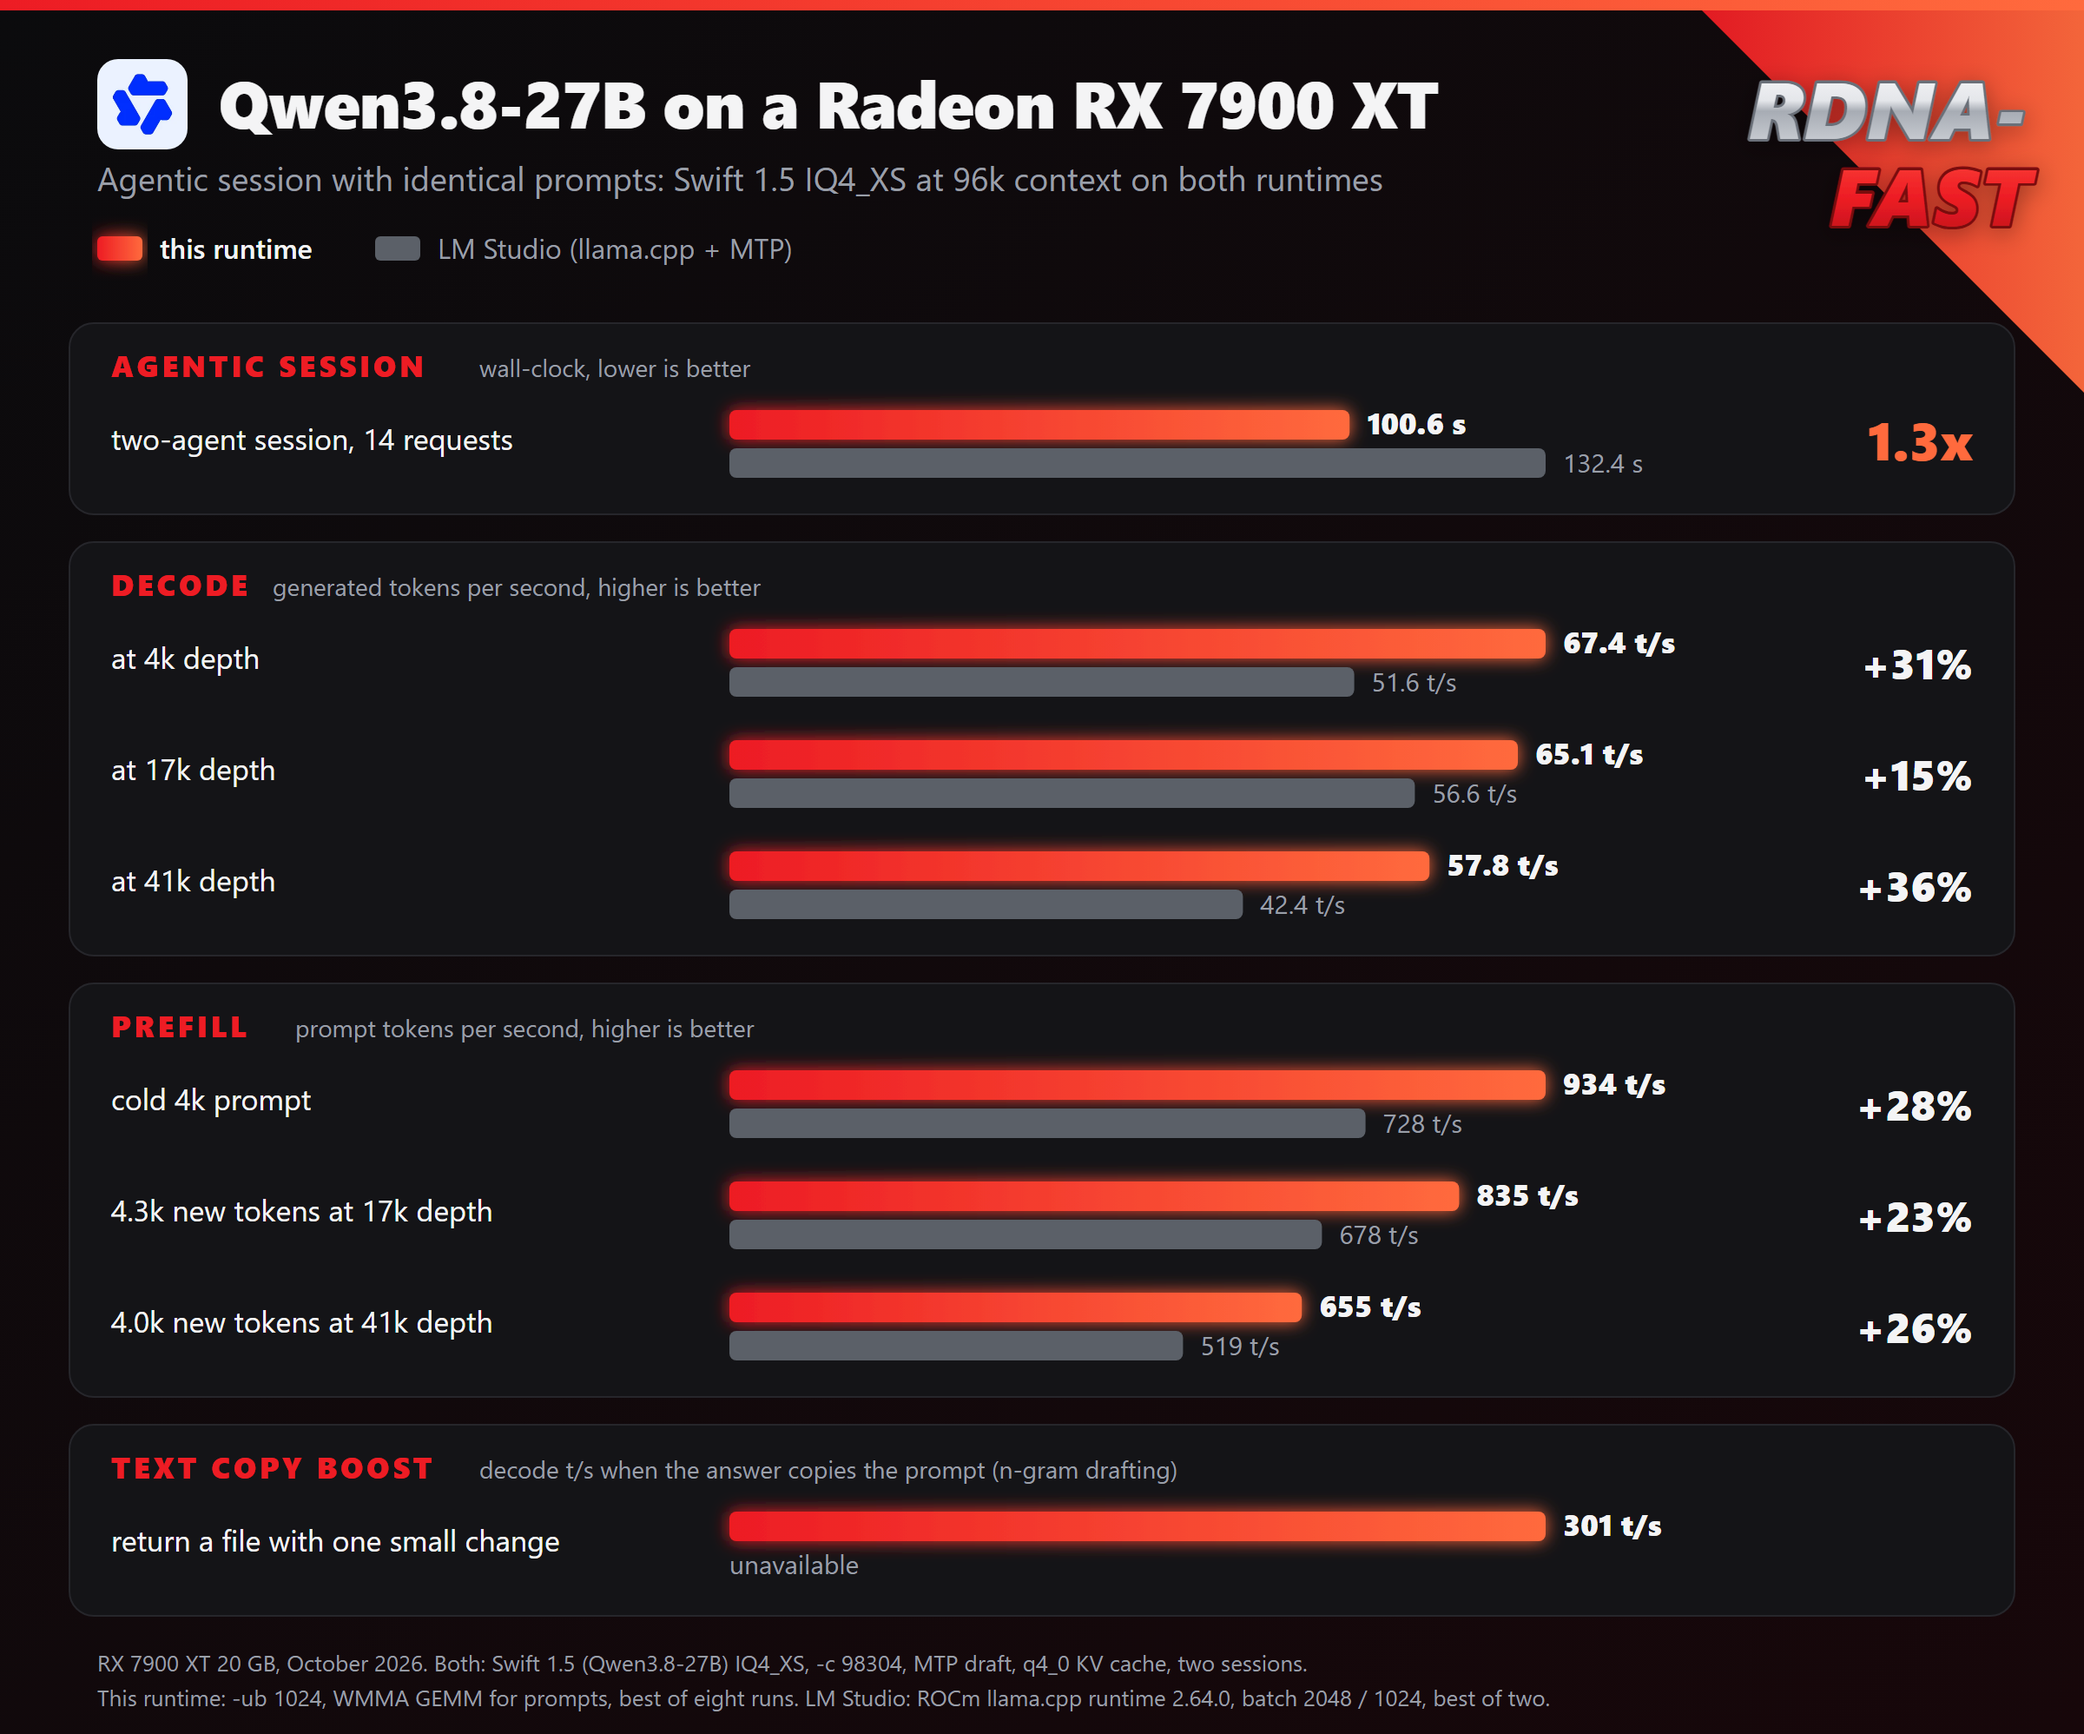
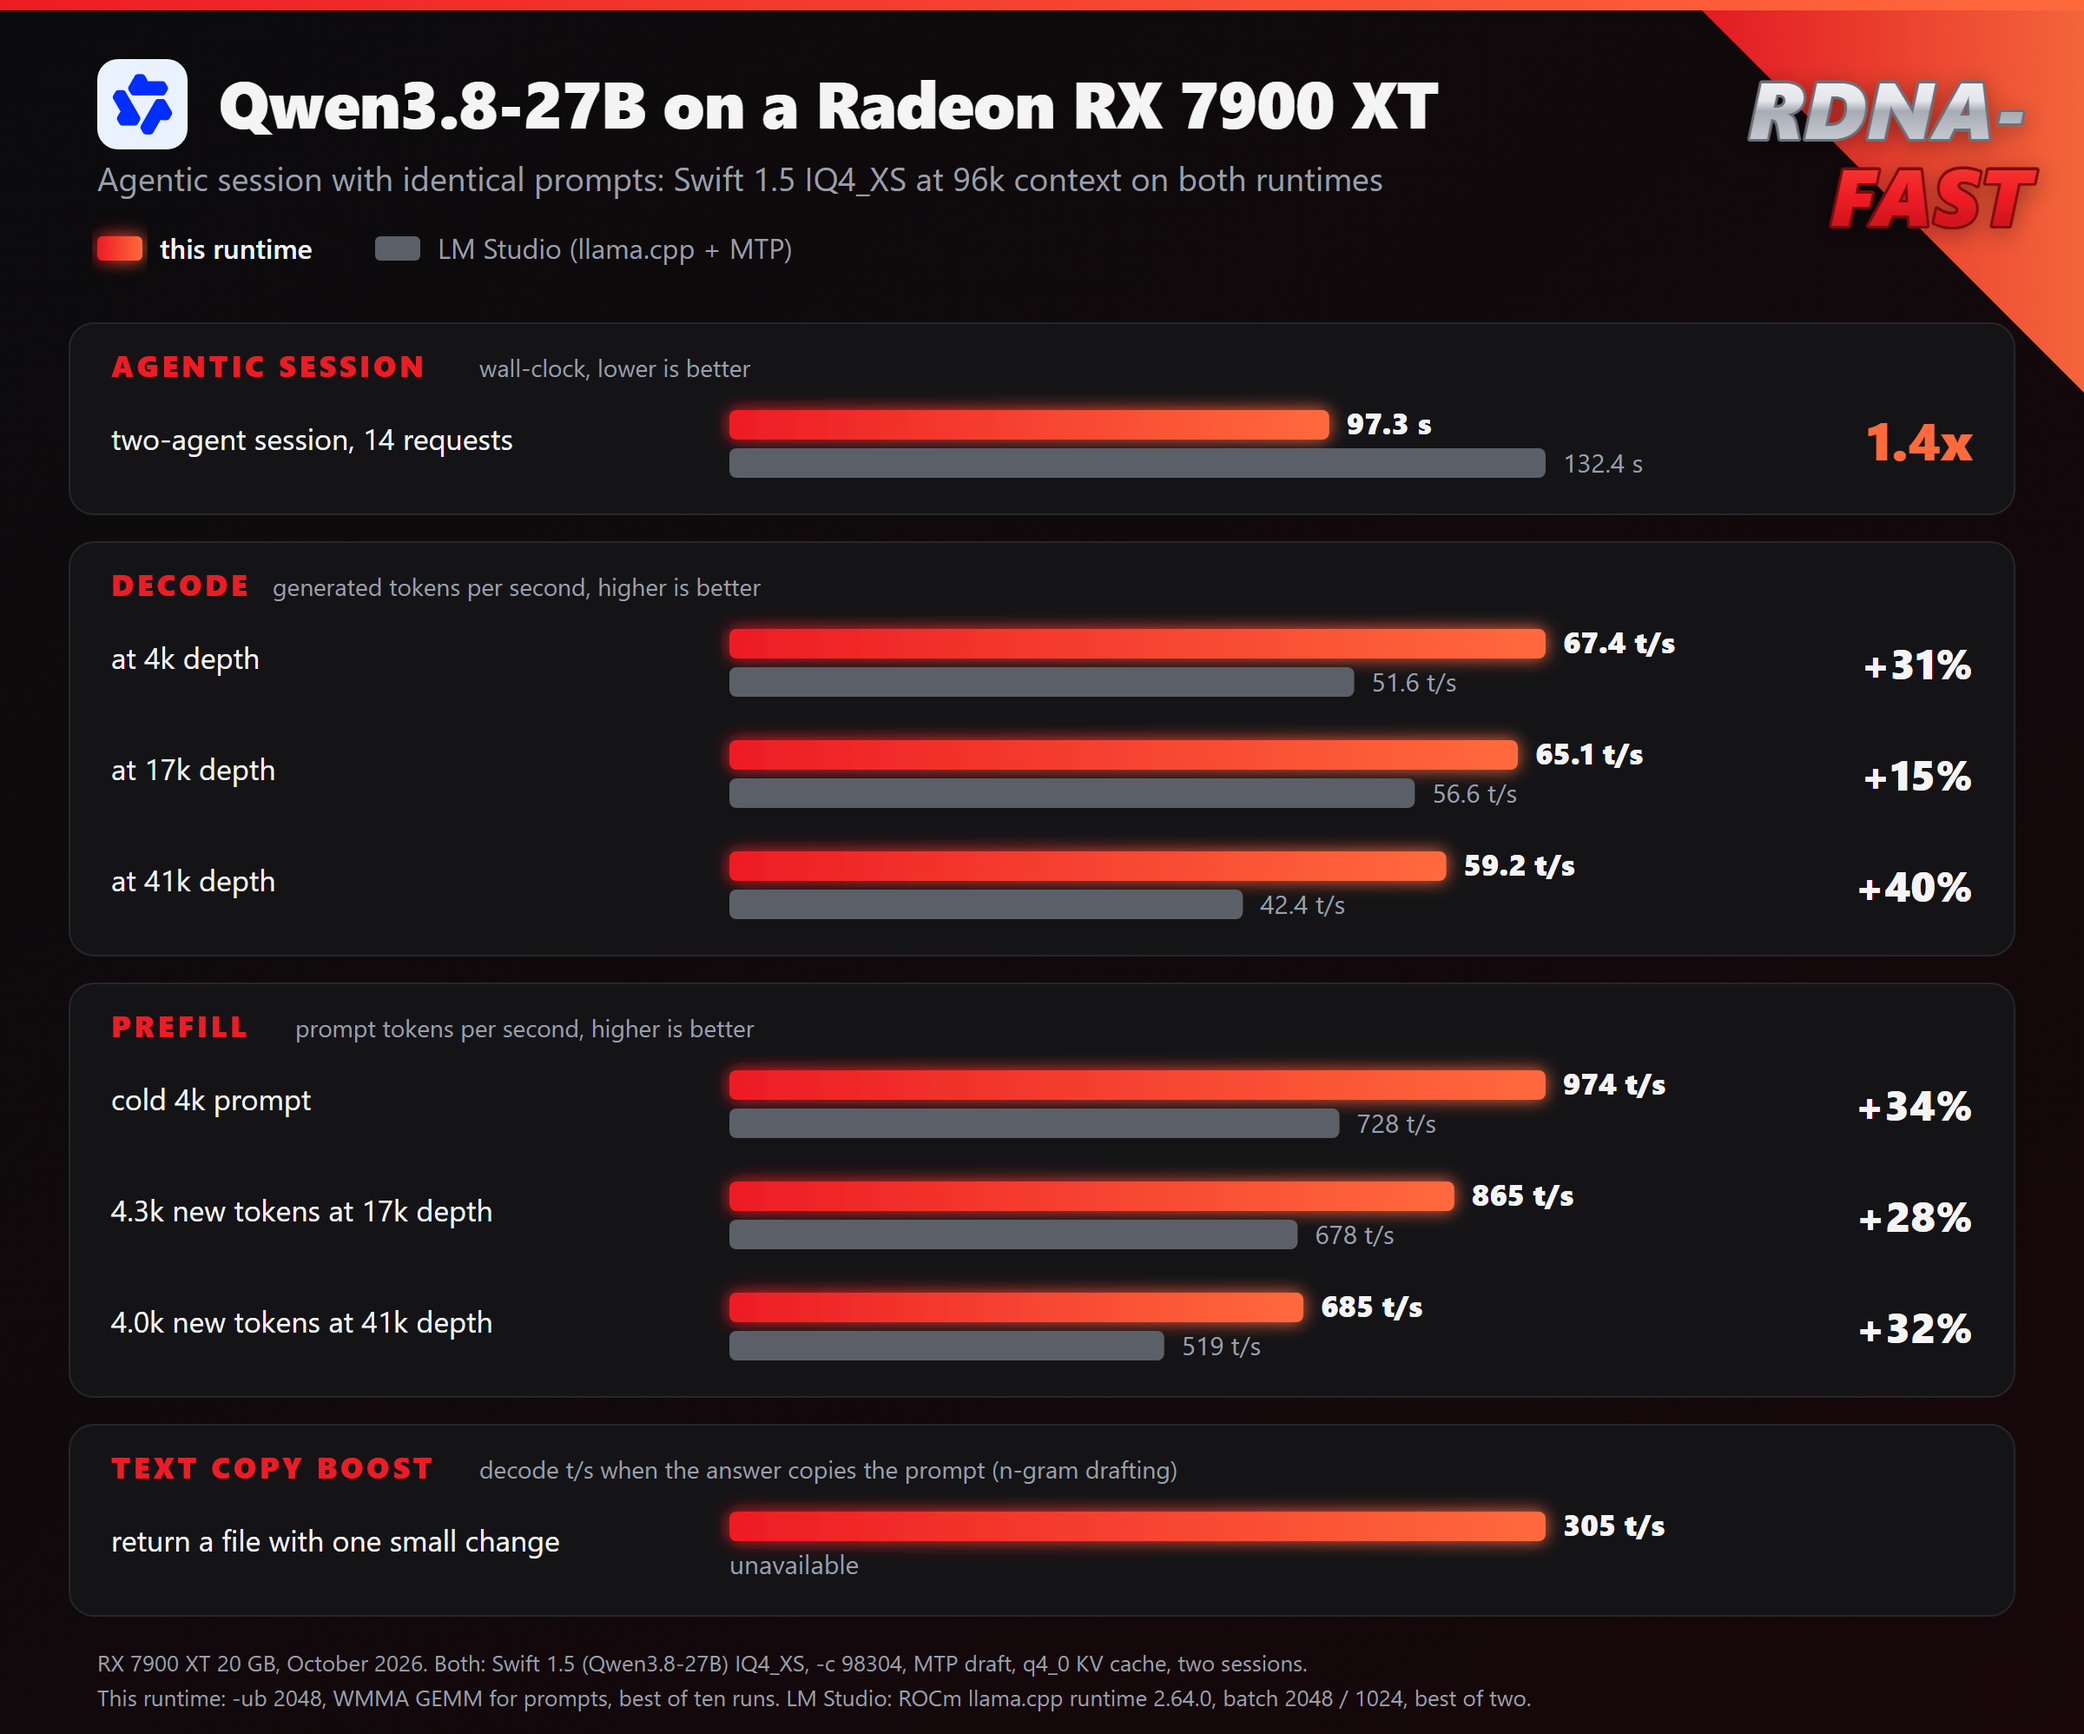
README, chart: -ub 2048 and the 2026-10-29 prod bench
Rollback by replay freed 0.8 GB, which lets prompts run in batches of 2048 tokens with the
lean MTP draft reserve (18.64 GB after a deep two-slot fill, nothing paged): prompts +3-4%.
Quick start, flag and env rows, VRAM numbers and Other cards say -ub 2048. Chart bench on
live production (c4d939380, -ub 2048): sessions 97.3 / 99.6 s, prefill 974 / 865 / 685 t/s
at 4k / 17k / 41k, decode at 41k 59.2, edits up to 305 t/s; the tables and the chart show the
best of ten runs (session 97 s, 1.4x LM Studio's 132 s).

diff --git a/README.md b/README.md
@@ -14,12 +14,12 @@ formats) and [llama.cpp](https://github.com/ggml-org/llama.cpp).
 ## Highlights
 
 - **Faster agent loops than LM Studio on the same card.** With the same model,
-  quant and context, a scripted two-agent session finishes in 101 s instead of
+  quant and context, a scripted two-agent session finishes in 97 s instead of
   132 s. [Numbers](#speed)
 
 - **Multi-token prediction.** The model's own MTP head drafts tokens ahead: up
   to 54 t/s on prose and 88 t/s on code. When an answer repeats text from the
-  prompt, as code edits do, n-gram drafting copies it at up to 301 t/s.
+  prompt, as code edits do, n-gram drafting copies it at up to 305 t/s.
 
 - **Prompts on the matrix cores.** Prompt processing runs on RDNA3's WMMA units
   through [rocm_wmma_gemm](https://github.com/adelj88/rocm_wmma_gemm) by Adel
@@ -74,22 +74,22 @@ grows from 4k to 41k tokens, a 10k-token worker is called twice in between):
 
 | | LM Studio + MTP draft | this runtime |
 |---|---:|---:|
-| **the session, wall-clock** | **132 s** | **101 s** |
-| prefill t/s, cold 4k prompt | 728 | 934 |
-| prefill t/s, 4.3k new tokens at 17k depth | 678 | 835 |
-| prefill t/s, 4.0k new tokens at 41k depth | 519 | 655 |
+| **the session, wall-clock** | **132 s** | **97 s** |
+| prefill t/s, cold 4k prompt | 728 | 974 |
+| prefill t/s, 4.3k new tokens at 17k depth | 678 | 865 |
+| prefill t/s, 4.0k new tokens at 41k depth | 519 | 685 |
 | decode t/s at 4k depth | 51.6 | 67.4 |
 | decode t/s at 17k depth | 56.6 | 65.1 |
-| decode t/s at 41k depth | 42.4 | 57.8 |
-| decode t/s, text copy boost: code edit that copies the prompt | unavailable | 301 |
+| decode t/s at 41k depth | 42.4 | 59.2 |
+| decode t/s, text copy boost: code edit that copies the prompt | unavailable | 305 |
 
 <sub>October 2026. Both run Swift 1.5 IQ4_XS at `-c 98304` with MTP drafting,
 flash attention, a q4_0 KV cache and two sessions, the best run for each value
-(LM Studio: two runs, this runtime: eight). LM Studio is its ROCm llama.cpp
-runtime 2.64.0 with batch 2048 / 1024; this runtime runs the quick start below
-(`-ub 1024`). The edit row is the text copy boost, n-gram drafting, the best of
-twelve edits; LM Studio cannot run it, as its API does not switch Swift 1.5's
-thinking off.</sub>
+(LM Studio: two runs, this runtime: ten). LM Studio is its ROCm llama.cpp
+runtime 2.64.0 with batch 2048 / 1024; this runtime runs the quick start below.
+The edit row is the text copy boost, n-gram drafting, the best of fifteen edits;
+LM Studio cannot run it, as its API does not switch Swift 1.5's thinking
+off.</sub>
 
 The same session with each quant we tested:
 
@@ -97,14 +97,14 @@ The same session with each quant we tested:
 |---|---:|---:|---:|---:|---:|---:|
 | [Q4_K_M](https://huggingface.co/ukisai/Swift-1.5-Qwen3.8-27B-GGUF/blob/main/Swift-1.5-Qwen3.8-27B-Q4_K_M.gguf)\* | 17.4 GB | 146.8 s | 1,211 s (spill) | 408 / 548 / 431 | 50.6 / 50.8 / 48.2 | 238 |
 | [Q4_K_S](https://huggingface.co/ukisai/Swift-1.5-Qwen3.8-27B-GGUF/blob/main/Swift-1.5-Qwen3.8-27B-Q4_K_S.gguf) | 16.4 GB | 112.6 s | 1,139 s (spill) | 889 / 769 / 616 | 49.2 / 51.7 / 48.8 | 247 |
-| [IQ4_XS](https://huggingface.co/ukisai/Swift-1.5-Qwen3.8-27B-GGUF/blob/main/Swift-1.5-Qwen3.8-27B-IQ4_XS.gguf) | 15.5 GB | 100.6 s | 132.4 s | 934 / 835 / 655 | 67.4 / 65.1 / 57.8 | 301 |
+| [IQ4_XS](https://huggingface.co/ukisai/Swift-1.5-Qwen3.8-27B-GGUF/blob/main/Swift-1.5-Qwen3.8-27B-IQ4_XS.gguf) | 15.5 GB | 97.3 s | 132.4 s | 974 / 865 / 685 | 67.4 / 65.1 / 59.2 | 305 |
 | [ROCmFP4-FP6](docs/rocmfpx/swift-1.5-qwen3.8-27b-rocmfp4-fp6.md) | 16.1 GB | 104.5 s | | 923 / 798 / 634 | 60.2 / 56.4 / 58.5 | 243 |
 
 <sub>\* At 64k (`-c 65536`) and `-ub 512`: the smaller context and prompt
 batches keep Q4_K_M's spill into system RAM down while staying above Hermes'
-64,000-token minimum. The other quants run at 96k with `-ub 1024`. Prefill and
-decode are this runtime's, in the session above; the better of two runs (IQ4_XS:
-the best of eight, Q4_K_M: one). LM Studio's Q4_K_S and Q4_K_M sit at the edge of
+64,000-token minimum. The other quants ran at 96k with `-ub 1024`, IQ4_XS at
+`-ub 2048` since. Prefill and decode are this runtime's, in the session above;
+the better of two runs (IQ4_XS: the best of ten, Q4_K_M: one). LM Studio's Q4_K_S and Q4_K_M sit at the edge of
 the card's memory and read every prompt again in full. ROCmFP4-FP6 is a ROCmFPX
 format, which LM Studio does not load.</sub>
 
@@ -163,7 +163,7 @@ set ROCMFPX_DRAFT_VOCAB=24576
 llama-server -m Swift-1.5-Qwen3.8-27B-IQ4_XS.gguf --mmproj mmproj-Qwen3.8-27B-f16.gguf ^
   -dev ROCm0 -ngl 999 -fa on --jinja --load-mode dio --gpu-keepalive-ms 2000 ^
   -c 98304 -np 2 --kv-unified --kv-unified-reserve 12288 --no-cache-idle-slots ^
-  -ctk q4_0 -ctv q4_0 -ctkd q4_0 -ctvd q4_0 -b 2048 -ub 1024 --no-mmproj-offload ^
+  -ctk q4_0 -ctv q4_0 -ctkd q4_0 -ctvd q4_0 -b 2048 -ub 2048 --no-mmproj-offload ^
   --ctx-checkpoints 8 --checkpoint-min-step 2048 ^
   --cache-ram 0 --cache-disk D:\llama-cache --cache-disk-limit 65536 --cache-disk-checkpoints 4 ^
   --spec-type "draft-mtp,ngram-map-k4v" --spec-draft-n-max 4 --spec-draft-p-min 0.60 ^
@@ -179,11 +179,11 @@ Flags:
 
 | flag | why |
 |---|---|
-| `-c 98304`, `-ctk q4_0 -ctv q4_0` | about what a 20 GB card holds with these settings: 18.1 GB resident, 0.7 GB paged with IQ4_XS (18.6 GB with the ROCmFP4-FP6 quant). KV costs ~18 KB/token. Whatever does not fit, Windows silently pages to system RAM. |
+| `-c 98304`, `-ctk q4_0 -ctv q4_0` | about what a 20 GB card holds with these settings: with IQ4_XS 17.9 GB resident at load and 18.6 GB after both slots are filled (58k and 39k tokens), nothing paged; the ROCmFP4-FP6 quant takes 0.5 GB more. KV costs ~18 KB/token. Whatever does not fit, Windows silently pages to system RAM. At `-c 131072` 0.9 GB is paged from the start. |
 | `-np 2 --kv-unified --kv-unified-reserve 12288` | two slots share one pool instead of splitting it. The reserve admits a second request only while both can still generate 12k tokens, else it waits in the queue. See [Several slots on one GPU](#several-slots-on-one-gpu). |
 | `--no-cache-idle-slots` | keeps the idle conversation resident; the default saves and clears it at every new task, which leaves one live conversation. |
 | `--no-mmproj-offload` | the 0.9 GB vision projector was the whole paged share at two slots. Images cost 7-12 s to the first token instead of 3-5 s. |
-| `-ub 1024` | prefill +6% at 17k and +11% at 41k over 256, for 0.3 GB more VRAM; 512 gives +4% and +8% for 0.1 GB. Decode does not change with it (55.7 against 56.0 t/s on identical text). The WMMA GEMM for prompts takes batches of 512 tokens or more only, so at `-ub 256` it never runs. `-ub 2048` does not fit beside `-c 106496` on 20 GB (2.3 GB paged, prefill falls to 162 t/s); at `-c 65536` it fits but gains only 1-2% on cold prompts (949 / 836 against 932 / 821 t/s at 17k / 41k). |
+| `-ub 2048` | prompts +3-4% over 1024 (cold 41k 855 against 830 t/s, 58k 790 against 763, 39k 857 against 831), decode unchanged. It fits on 20 GB since [rollback by replay](#rollback-by-replay), with the lean MTP draft reserve: 18.64 GB after a deep two-slot fill, 18.74 at 1024. 1536 is 1.5-2% slower than 1024: the WMMA GEMM's configurations are tuned for 1024 and 2048 rows. 1024 gave +6% at 17k and +11% at 41k over 256. The WMMA GEMM for prompts takes batches of 512 tokens or more only, so at `-ub 256` it never runs. |
 | `--spec-type draft-mtp`, `--spec-draft-n-max 4` | +45% decode on prose, +112% on code, for about 0.7 GB of VRAM and 3% of prefill speed. The draft head has its own KV cache; for prompt tokens only its K and V are computed, nothing else of the block is ever read. |
 | `--spec-type "...,ngram-map-k4v"` | text copy boost: n-gram drafting in front of MTP. Where the last tokens repeat an earlier place of the context, the continuation found there is drafted, otherwise MTP drafts as before. Each match first makes a 4-token probe that is not sent: MTP drafts that pass, and the probe is scored against what comes out. Once six probes in a row would have been accepted in full, n-gram drafts of up to 48 tokens replace MTP until one is not accepted in full, so a match that is only a phrase or a path costs neither a pass nor a checkpoint. On two days of agent traffic (783 requests) this saved 4.6-6.0% of decode time, and 5-6% of the requests came out slower, against 12-40% when the probes were sent. Code edits that copy the prompt run at up to 293 t/s. Quote the value in a .cmd file: cmd splits arguments at commas. |
 | `--no-spec-ngram-map-ramp` | not set here. Full-length n-gram drafts (48 tokens) from the first match: 268 t/s on code edits and 180 t/s on the copy at 41k, but slower on answers that only share phrases with the context, where a wrong long draft costs a checkpoint restore and a replay pass. |
@@ -203,7 +203,7 @@ Environment variables:
 | `LLAMA_MAX_QUEUED=3` | a request is rejected once three are already waiting, so a client can fall back to another server instead of queueing. |
 | `ROCMFPX_DRAFT_VOCAB=24576` | a drafted token is scored against 24,576 candidate tokens instead of all 248,320: half fixed, half the main model's own top tokens at the previous position, per slot. The main model still verifies each drafted token against the full vocabulary. Measured at 16,384: 0.12 ms instead of 1.9 ms per drafted token, decode +9% on a short context and +3 to 5% at 41k, a verbatim copy drafts slightly less (acceptance 0.99 to 0.96), ordinary text the same. 24,576 accepts 3.50 drafted tokens per verify pass against 3.43 at 16,384, at the same speed. |
 | `GGML_HIP_FA_GQA6` | not set here, on by default: attention for decode batches of 1 to 5 tokens, one GPU block per KV head with all six of its query heads, instead of three groups of two and a batch padded to 8. Decode +10 to 12% at 41k, +2 to 6% at 17k, nothing at a short context. Qwen3.5/3.8-27B on RDNA only (head size 256, 24 query heads on 4 KV heads). `=0` turns it off. |
-| `ROCMFPX_MTP_LEAN_RESERVE` | not set here, on by default: the MTP draft context reserves memory for the two shapes it runs (the K/V-only pass over prompt tokens and a one-token draft step), 80 MiB instead of 784 MiB, which is what lets `-c 98304` fit. `=0` restores the full reserve. |
+| `ROCMFPX_MTP_LEAN_RESERVE` | not set here, on by default: the MTP draft context reserves memory for the two shapes it runs (the K/V-only pass over prompt tokens and a one-token draft step), 80 MiB instead of 784 MiB, which is what lets `-ub 2048` fit beside `-c 98304`. `=0` restores the full reserve. |
 | `ROCMFPX_NGRAM_SHADOW`, `ROCMFPX_NGRAM_PROBES` | not set here: `ROCMFPX_NGRAM_SHADOW=0` sends the n-gram probes in place of MTP's draft instead of scoring them in the background, `ROCMFPX_NGRAM_PROBES` sets how many probes in a row must hold before long n-gram drafts start (6). |
 | `ROCMFPX_WMMA_GEMM` | not set here, on by default on RDNA3 and RDNA3.5 (gfx11): prompt-sized FP4/FP6 products through the WMMA GEMM. `=0` turns it off. See [Prompts through a WMMA GEMM](#prompts-through-a-wmma-gemm). |
 | `ROCMFPX_WMMA_GEMM_MIN_BATCH`, `ROCMFPX_WMMA_GEMM_SCRATCH_MB` | not set here: the smallest batch that takes the WMMA GEMM (512) and the size of its f16 weight scratch (64 MB). |
@@ -280,7 +280,7 @@ would likely not help elsewhere stay limited to the RX 7900 series.
   that kernel, which is tuned there; RDNA4 never uses it), and two rows per
   block for the 4- and 5-bit block types, whose gain on real models was 0.2 to
   3.7% and is not worth carrying untested.
-- **Settings.** `-c`, `-ub 1024` and the VRAM split in this README are sized
+- **Settings.** `-c`, `-ub 2048` and the VRAM split in this README are sized
   for 20 GB of VRAM. The speed tables are for the RX 7900 XT and will differ on
   other cards.
 
@@ -484,9 +484,10 @@ Swift 1.5 IQ4_XS, `-c 98304`, two slots, MTP and n-gram drafting:
 | copy decode at 41k, t/s | 113.6, 110.6 | 115.5, 112.0 |
 
 Temperature-0 output is identical to the copy path (four turns of a 17k-token
-conversation, generated text and drafted and accepted counts). An SSD cache entry
-saved with a pending rollback has a new tag that older builds refuse; they
-process that prompt again. All other entries keep the old format.
+conversation, generated text and drafted and accepted counts). The freed memory
+is what lets prompts run in batches of 2048 tokens (`-ub 2048`, 3-4% faster).
+An SSD cache entry saved with a pending rollback has a new tag that older builds
+refuse; they process that prompt again. All other entries keep the old format.
 
 ---
 
